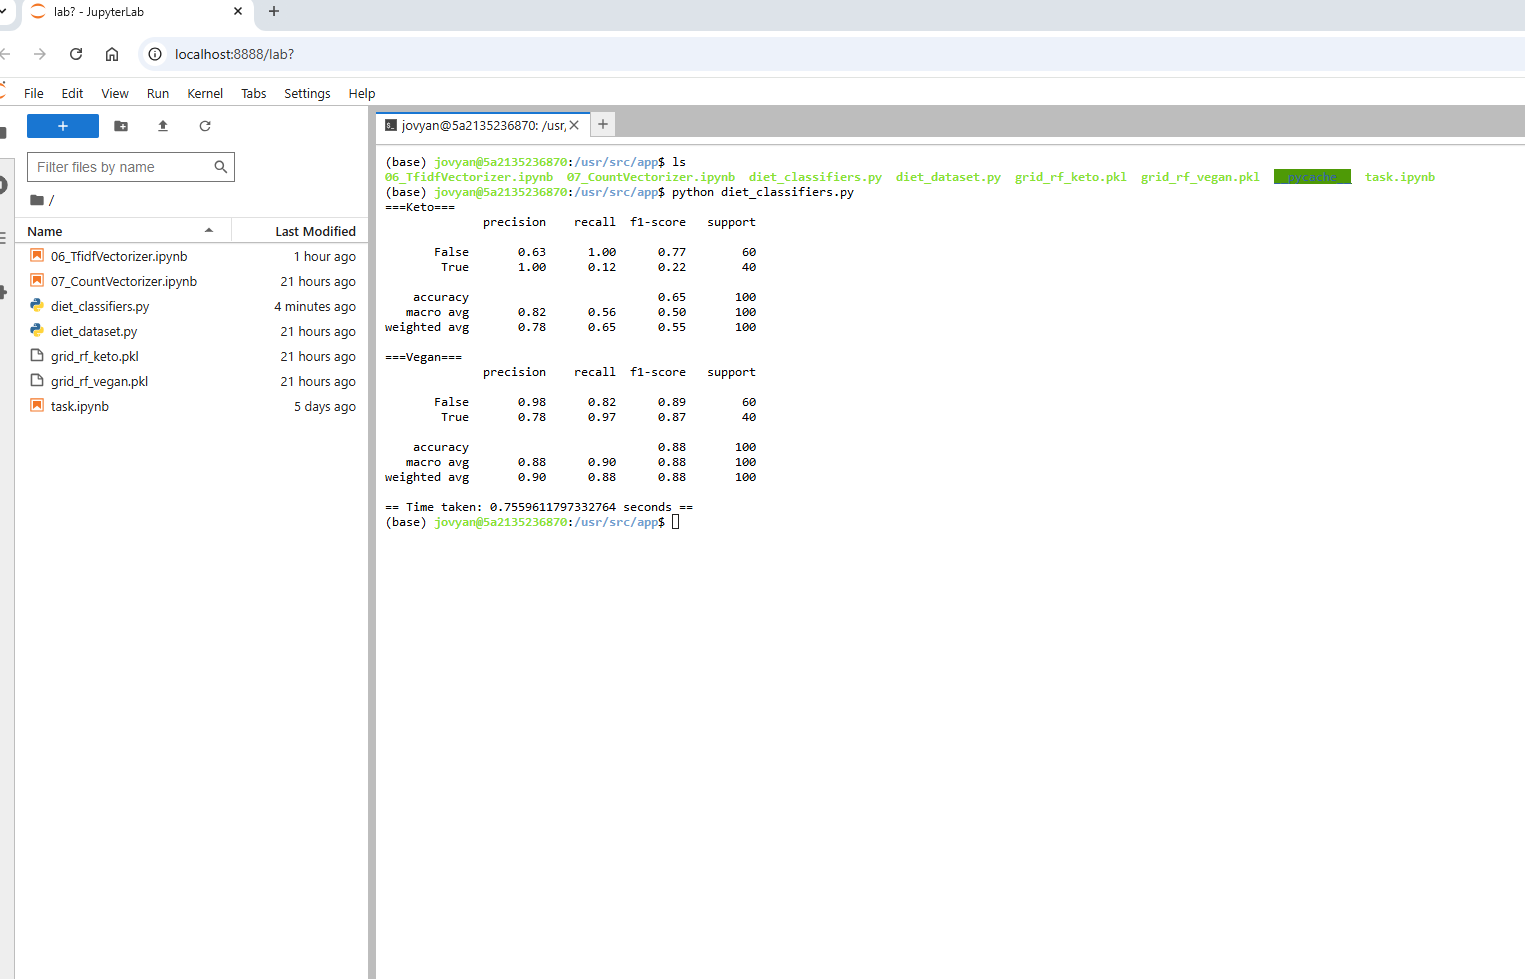
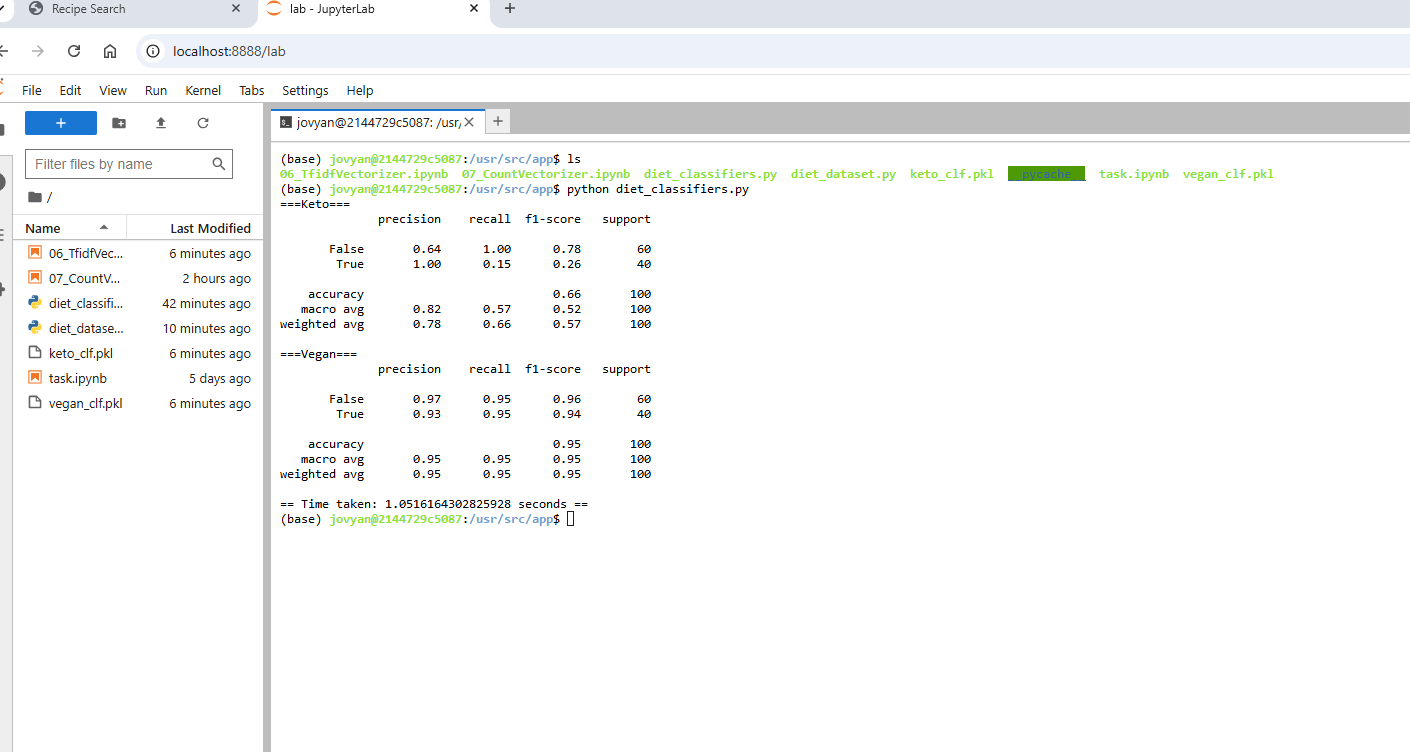
final tweeks

diff --git a/web/src/diet_classifiers.py b/web/src/diet_classifiers.py
@@ -5,15 +5,14 @@ from time import time
 import pandas as pd
 ##########################################################################################
 import joblib
+import os
 
-# Load the serialized models on Docker
-#rf_vegan_clf = joblib.load('/app/data/grid_rf_vegan.pkl')
-#rf_keto_clf = joblib.load('/app/data/grid_rf_keto.pkl')
+# Load the serialized models
+current_file_path = os.path.abspath(__file__)
+current_dir_path = os.path.dirname(current_file_path)
 
-# Load the serialized models on Windows
-base_dir = 'C:/Users/SimonShtock/source/search_by_ingredients/web/src'
-rf_vegan_clf = joblib.load(base_dir + '/grid_rf_vegan.pkl')
-rf_keto_clf = joblib.load(base_dir + '/grid_rf_keto.pkl')
+rf_vegan_clf = joblib.load(os.path.join(current_dir_path, 'vegan_clf.pkl'))
+rf_keto_clf = joblib.load(os.path.join(current_dir_path, 'keto_clf.pkl'))
 ###########################################################################################
 try:
     from sklearn.metrics import classification_report

diff --git a/nb/src/diet_classifiers.py b/nb/src/diet_classifiers.py
@@ -1,4 +1,5 @@
 import sys
+import os
 from argparse import ArgumentParser
 from typing import List
 from time import time
@@ -7,13 +8,12 @@ import pandas as pd
 import joblib
 import re
 
-# Load the serialized models - Windows
-#rf_vegan_clf = joblib.load('nb/data/grid_rf_vegan.pkl')
-#rf_keto_clf = joblib.load('nb/data/grid_rf_keto.pkl')
+# Load the serialized models
+current_file_path = os.path.abspath(__file__)
+current_dir_path = os.path.dirname(current_file_path)
 
-# Load the serialized models - Docker
-rf_vegan_clf = joblib.load('./grid_rf_vegan.pkl')
-rf_keto_clf = joblib.load('./grid_rf_keto.pkl')
+rf_vegan_clf = joblib.load(os.path.join(current_dir_path, 'vegan_clf.pkl'))
+rf_keto_clf = joblib.load(os.path.join(current_dir_path, 'keto_clf.pkl'))
 ###########################################################################################
 try:
     from sklearn.metrics import classification_report

diff --git a/nb/src/diet_dataset.py b/nb/src/diet_dataset.py
@@ -20,6 +20,11 @@ def load_foods(path):
         {"Description": 'OLIVES,OIL', "Data.Carbohydrate": 0, 'Data.Cholesterol': 0},
         {"Description": 'SAUCE,SOY', "Data.Carbohydrate": 4.9, 'Data.Cholesterol': 0},
         {"Description": 'APPLES', "Data.Carbohydrate": 13.8, 'Data.Cholesterol': 0},        
+        {"Description": 'EGG', "Data.Carbohydrate": 0.0, 'Data.Cholesterol': 100},
+        {"Description": 'EGGS', "Data.Carbohydrate": 0.0, 'Data.Cholesterol': 100},
+        {"Description": 'BUTTER', "Data.Carbohydrate": 0.0, 'Data.Cholesterol': 100},   
+        {"Description": 'MILK,CASHEW', "Data.Carbohydrate": 2.0, 'Data.Cholesterol': 0},   
+        {"Description": 'MILK,COCONUT', "Data.Carbohydrate": 13.0, 'Data.Cholesterol': 0},         
     ])
 
     food_df = pd.concat([food_df, new_rows], ignore_index=True) 

diff --git a/DELIVERY.md b/DELIVERY.md
@@ -27,7 +27,7 @@ The best model/vectorizer combination found in this research is **TfidfVectorize
 
 ### Running **diet\_classifiers.py** Locally
 
-I've run **diet\_classifiers.py** locally and captured a screenshot of the results as evidence: **nb/Screenshot\_run1.png**. To run the script, execute `python nb/src/diet_classifiers.py` from the root folder. The folder is important because my script needs to locate the **.pkl** files, and it resolves related paths accordingly. **Note: After running locally, I altered the path so the script will run correctly on Docker.**
+I've run **diet\_classifiers.py** locally and captured a screenshot of the results as evidence: **nb/Screenshot\_run1.png**. To run the script, execute `python nb/src/diet_classifiers.py --ground_truth nb/data/ground_truth_sample.csv` from the root folder. 
 
 ---
 